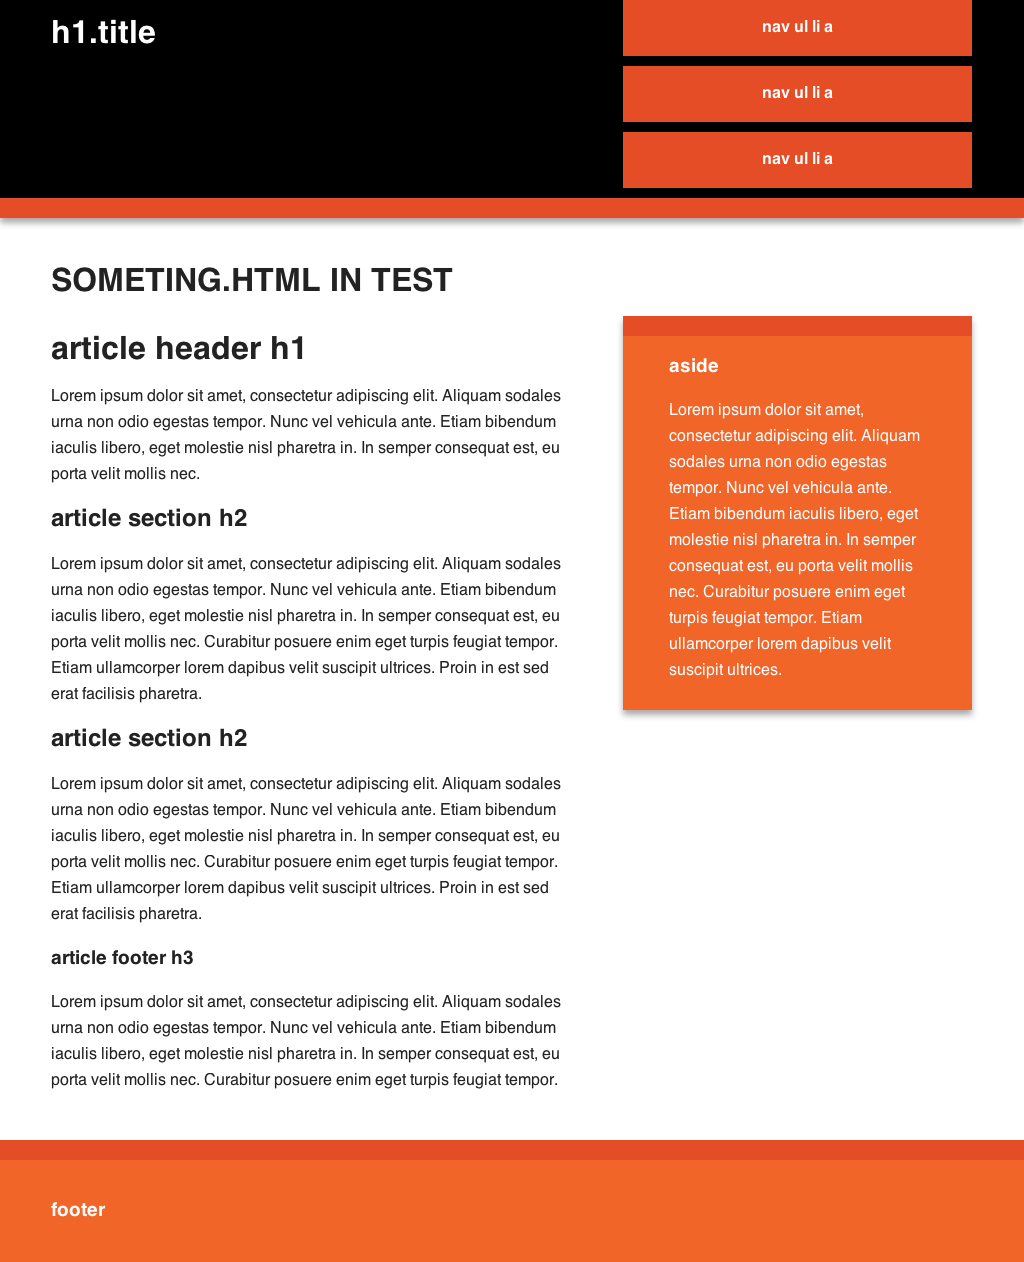
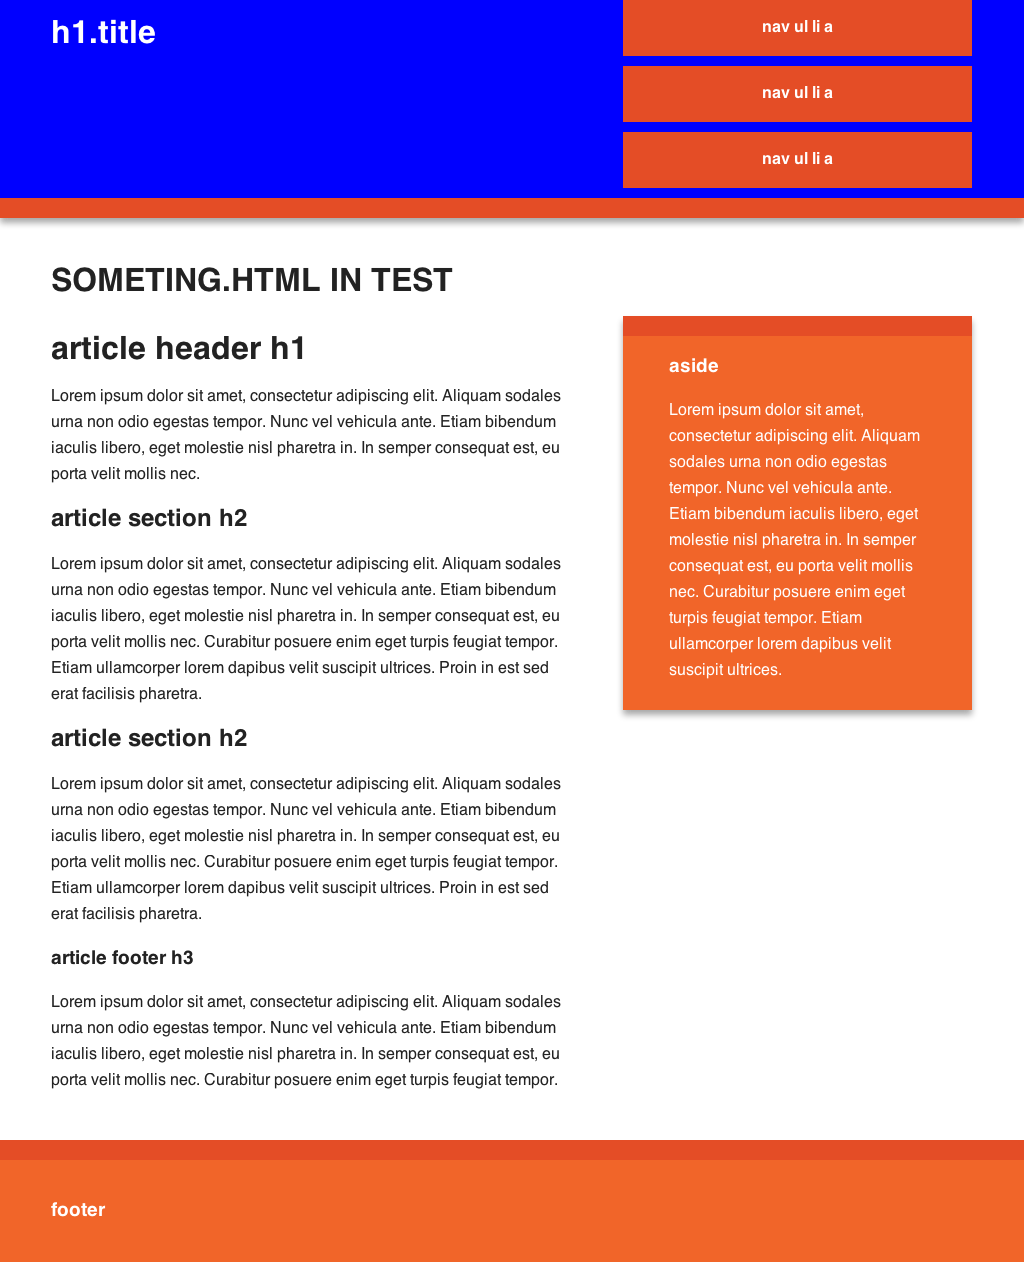
second test

Changed region(s): [[0.0, 0.0, 1.0, 0.1545]]

diff --git a/test/files/css/main.css b/test/files/css/main.css
@@ -398,5 +398,5 @@ nav a:hover {
 
 .header-container {
     color: black;
-    background: black;
+    background: blue;
 }
